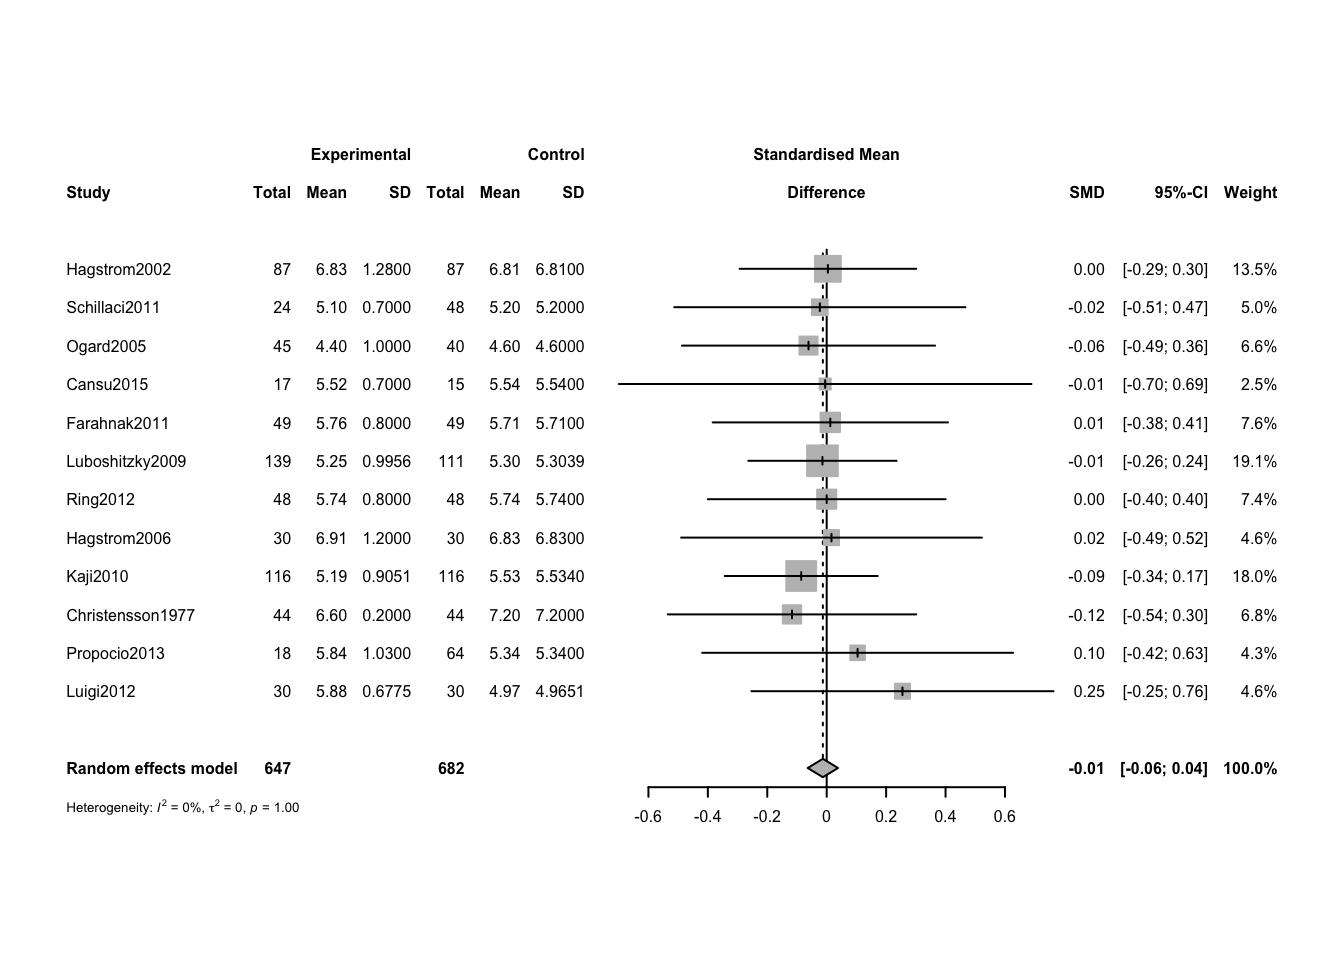
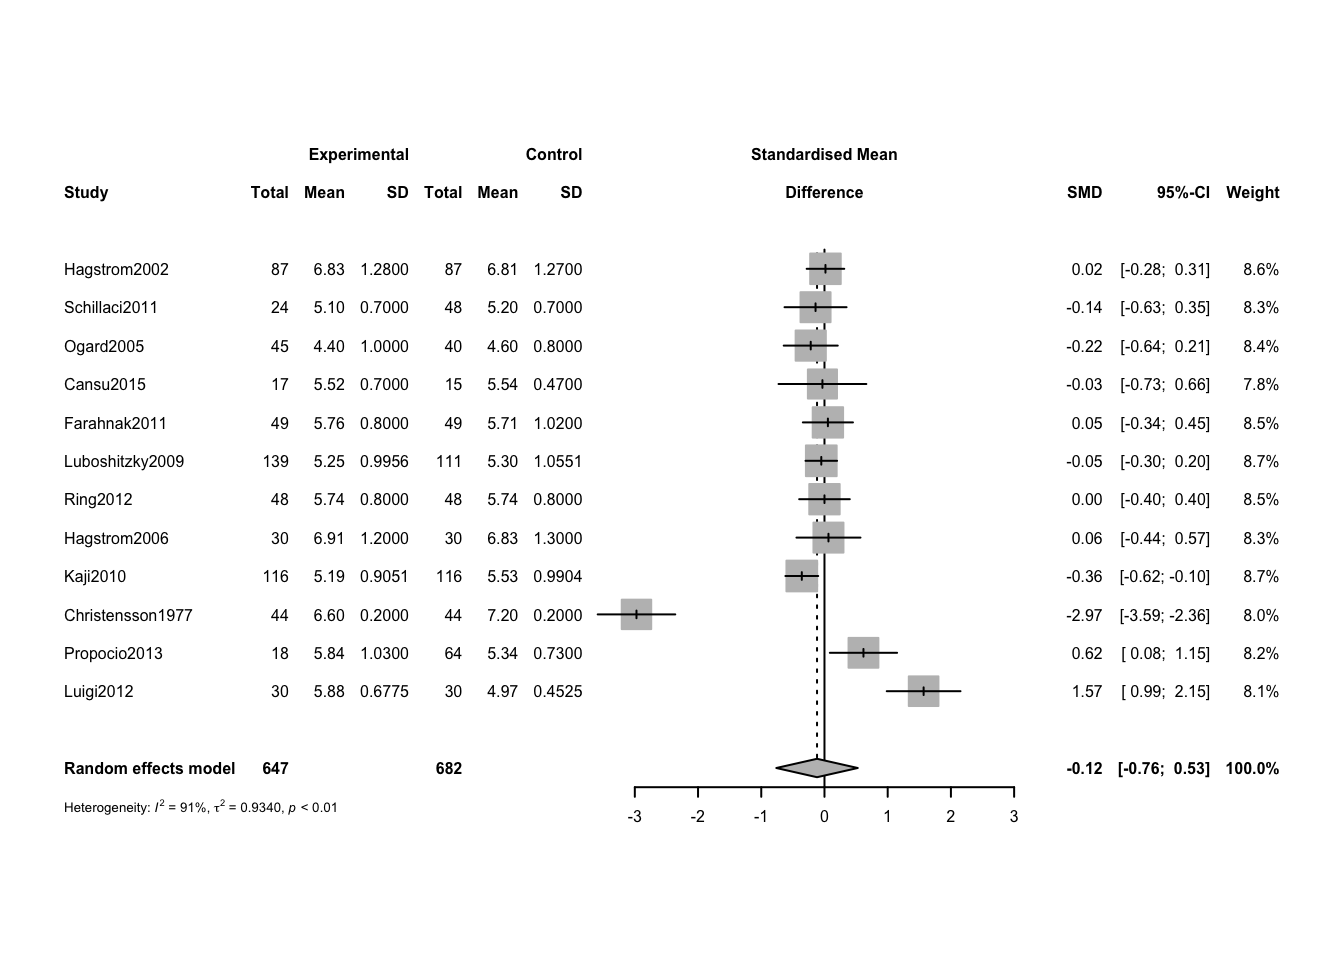
Fixed error in meta-analysis command

diff --git a/Meta Analysis/pPTH-cholesterol-case-control.html b/Meta Analysis/pPTH-cholesterol-case-control.html
@@ -151,7 +151,7 @@ code span.wa { color: #60a0b0; font-weight: bold; font-style: italic; } /* Warni
 <span id="cb1-2"><a href="#cb1-2" aria-hidden="true" tabindex="-1"></a><span class="fu">library</span>(readr)</span>
 <span id="cb1-3"><a href="#cb1-3" aria-hidden="true" tabindex="-1"></a>data <span class="ot">&lt;-</span> <span class="fu">read_csv</span>(data.sheet)<span class="co">#from a google sheet</span></span></code><button title="Copy to Clipboard" class="code-copy-button"><i class="bi"></i></button></pre></div>
 </div>
-<p>The data can be found in the google sheet https://docs.google.com/spreadsheets/d/e/2PACX-1vTyvQnc6bLRLGT6QXEMHxiAQVbK_zag_JIAjvYjTMXINcqdkBwglmg_mlj_k9ml9QsrNQl-tZgy8ACl/pub?gid=381583063&amp;single=true&amp;output=csv. This script can be found in /Users/davebrid/Documents/GitHub/PrecisionNutrition/Meta Analysis and was most recently run on Mon Dec 5 11:01:12 2022</p>
+<p>The data can be found in the google sheet https://docs.google.com/spreadsheets/d/e/2PACX-1vTyvQnc6bLRLGT6QXEMHxiAQVbK_zag_JIAjvYjTMXINcqdkBwglmg_mlj_k9ml9QsrNQl-tZgy8ACl/pub?gid=381583063&amp;single=true&amp;output=csv. This script can be found in /Users/davebrid/Documents/GitHub/PrecisionNutrition/Meta Analysis and was most recently run on Mon Dec 5 11:33:03 2022</p>
 </section>
 <section id="meta-analysis" class="level2">
 <h2 class="anchored" data-anchor-id="meta-analysis">Meta Analysis</h2>
@@ -164,7 +164,7 @@ code span.wa { color: #60a0b0; font-weight: bold; font-style: italic; } /* Warni
 <span id="cb2-5"><a href="#cb2-5" aria-hidden="true" tabindex="-1"></a>                    <span class="at">mean.e=</span>PTH_mean,</span>
 <span id="cb2-6"><a href="#cb2-6" aria-hidden="true" tabindex="-1"></a>                    <span class="at">mean.c=</span>Controls_mean,</span>
 <span id="cb2-7"><a href="#cb2-7" aria-hidden="true" tabindex="-1"></a>                    <span class="at">sd.e=</span>PTH_SD,</span>
-<span id="cb2-8"><a href="#cb2-8" aria-hidden="true" tabindex="-1"></a>                    <span class="at">sd.c=</span>Controls_mean,</span>
+<span id="cb2-8"><a href="#cb2-8" aria-hidden="true" tabindex="-1"></a>                    <span class="at">sd.c=</span>Controls_SD,</span>
 <span id="cb2-9"><a href="#cb2-9" aria-hidden="true" tabindex="-1"></a>                    <span class="at">studlab =</span> Study,</span>
 <span id="cb2-10"><a href="#cb2-10" aria-hidden="true" tabindex="-1"></a>                    <span class="at">method.smd=</span><span class="st">"Hedges"</span>,</span>
 <span id="cb2-11"><a href="#cb2-11" aria-hidden="true" tabindex="-1"></a>                    <span class="at">sm=</span><span class="st">"SMD"</span>,</span>

diff --git a/Meta Analysis/pPTH-cholesterol-case-control.md b/Meta Analysis/pPTH-cholesterol-case-control.md
@@ -30,7 +30,7 @@ data <- read_csv(data.sheet)#from a google sheet
 :::
 
 
-The data can be found in the google sheet https://docs.google.com/spreadsheets/d/e/2PACX-1vTyvQnc6bLRLGT6QXEMHxiAQVbK_zag_JIAjvYjTMXINcqdkBwglmg_mlj_k9ml9QsrNQl-tZgy8ACl/pub?gid=381583063&single=true&output=csv.  This script can be found in /Users/davebrid/Documents/GitHub/PrecisionNutrition/Meta Analysis and was most recently run on Mon Dec  5 11:01:12 2022
+The data can be found in the google sheet https://docs.google.com/spreadsheets/d/e/2PACX-1vTyvQnc6bLRLGT6QXEMHxiAQVbK_zag_JIAjvYjTMXINcqdkBwglmg_mlj_k9ml9QsrNQl-tZgy8ACl/pub?gid=381583063&single=true&output=csv.  This script can be found in /Users/davebrid/Documents/GitHub/PrecisionNutrition/Meta Analysis and was most recently run on Mon Dec  5 11:33:03 2022
 
 ## Meta Analysis
 
@@ -47,7 +47,7 @@ analysis <- metacont(data=data,
                     mean.e=PTH_mean,
                     mean.c=Controls_mean,
                     sd.e=PTH_SD,
-                    sd.c=Controls_mean,
+                    sd.c=Controls_SD,
                     studlab = Study,
                     method.smd="Hedges",
                     sm="SMD",
